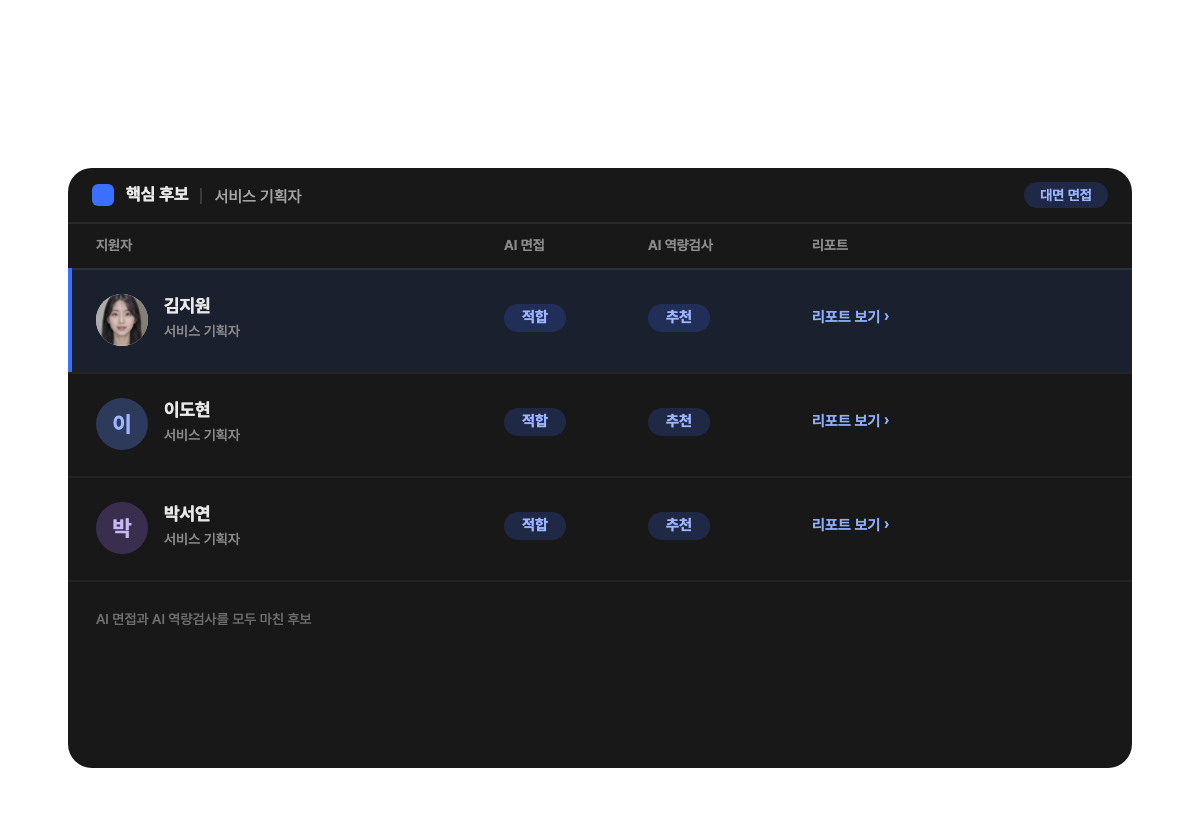
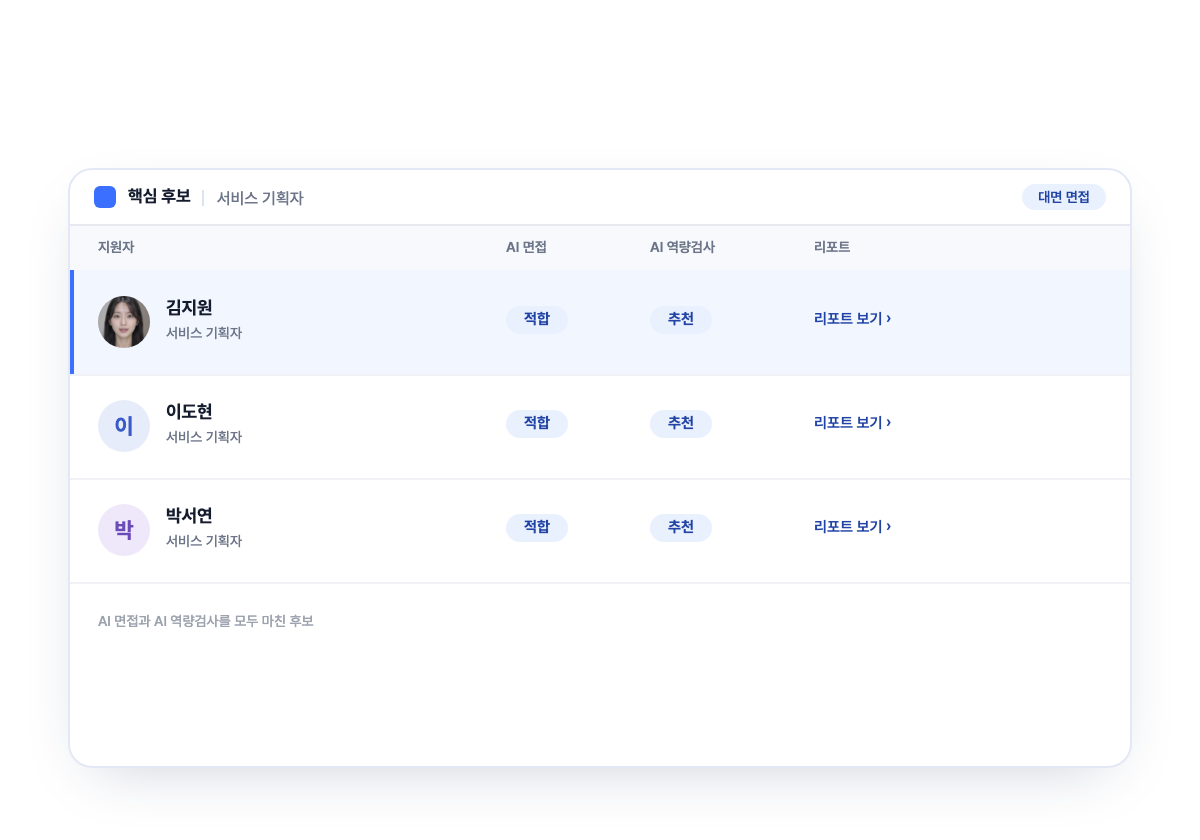
유형 탭 그림에 모션(글이 써지고 차례로 나타남), 대면 면접 화면 흰색, 얼굴 확인 원본 배경
- TypeDemo: 유형 탭 그림을 이미지 대신 HTML로(좌표·글자 cqw) — 채용공고 작성: 직무·주요 업무가 커서와 함께 입력,
  이력서: 줄이 차례로 써지고 '확인할 경험' 표시, AI 개발 과제: 요청 → AI 답 → 고친 줄 입력 → 테스트 통과,
  AI 업무 과제: 보고서 → 이해관계자 질문·답 → 계획 줄, 코딩 테스트: 풀이 코드가 한 줄씩 → 채점 안내. 보일 때만 움직이고 반복, 움직임 줄이기면 다 나온 모습
- 함께 쓰는 순서 3단계 '핵심 후보' 화면: 어두운 화면 → 흰 화면(채용팀 화면), 칩·이니셜 색도 밝게
- 얼굴 확인: 오려낸 가장자리가 뿌옇던 것을 원본 배경 그대로, 사진 전체 높이를 칸에 맞춰 인물을 작게

diff --git a/components/TypeDemo.tsx b/components/TypeDemo.tsx
@@ -1,0 +1,215 @@
+"use client";
+
+import { useEffect, useRef, useState, type CSSProperties, type ReactNode } from "react";
+
+// 유형 탭 그림(2026-11-26) — 이미지 대신 HTML로 그려 글이 써지고 요소가 차례로 나타난다. 모양은 도입 단계 이미지와 같은 창(오른쪽 아래로 넘침,
+// 원본 _docs/홈페이지 개편/도식/캡처가공 type-*). 면접 유형: 채용공고 작성(jd)·이력서(cv) — 흰 창. 과제 유형: AI 개발 과제(dev)·AI 업무 과제(doc)·
+// 코딩 테스트(code) — 실제 응시 화면 색의 어두운 창. 좌표는 360×240 캔버스 기준(px)을 cqw로 바꿔 칸 폭에 맞춰 늘고 준다(u).
+// 순서는 SCRIPTS(글자 단위로 써지는 type, 한 번에 나타나는 show). 보일 때만 움직이고(다른 탭이거나 화면 밖이면 멈춤) 다 끝나면 잠시 머물렀다 처음부터.
+// 움직임 줄이기 설정이면 다 나온 모습 그대로. 스타일은 app/landing.css(.tdemo·.td-*).
+const u = (px: number) => `${(px / 3.6).toFixed(3)}cqw`;
+const at = (left: number, top: number, extra: CSSProperties = {}): CSSProperties => ({ left: u(left), top: u(top), ...extra });
+
+type Seg = [string, string?]; // 글, 코드 색(k 키워드·c 흐름·f 함수·v 변수·n 숫자)
+type Ev = { id: string; segs?: Seg[]; gap?: number }; // segs가 있으면 한 글자씩, 없으면 한 번에 나타남
+const S = (text: string): Seg[] => [[text]];
+
+const SCRIPTS = {
+  jd: [
+    { id: "role", segs: S("서비스 기획자") },
+    { id: "j1", segs: S("· 서비스 개선 과제를 정의하고 우선순위를 정합니다") },
+    { id: "j2", segs: S("· 데이터로 문제를 찾고 개선안을 냅니다") },
+    { id: "j3", segs: S("· 개발·디자인과 일정을 맞춥니다") },
+  ],
+  cv: [
+    { id: "c0", segs: S("누리커머스 · 서비스 기획") }, { id: "d0", gap: 4 },
+    { id: "c1", segs: S("결제 화면 개편 프로젝트를 이끌었습니다") }, { id: "chip", gap: 10 },
+    { id: "c2", segs: S("고객 문의 데이터로 개선 과제를 정했습니다") },
+    { id: "c3", segs: S("신규 회원 온보딩 개편") }, { id: "d1", gap: 4 },
+    { id: "c4", segs: S("사용자 인터뷰로 요구사항을 정리했습니다") },
+  ],
+  dev: [
+    { id: "me", gap: 16 },
+    { id: "ai", segs: S("쿠폰이 없으면 합계를 그대로 돌려주게 고쳤어요") },
+    { id: "fix", segs: [["  "], ["if", "c"], [" (!"], ["cart", "v"], ["."], ["coupon", "v"], [") "], ["return", "c"], [" "], ["sum", "v"], [";"]] },
+    { id: "pass", gap: 4 },
+  ],
+  doc: [
+    { id: "m1", segs: S("# 자료 분석 보고서") },
+    { id: "m2", segs: S("## 1. 핵심 내용 비교") },
+    { id: "m3", segs: S("| 항목 | 파일 1 | 파일 2 |") },
+    { id: "m4", segs: S("| 신규 가입 | 늘었음 | 줄었음 |") },
+    { id: "q", gap: 14 },
+    { id: "a", segs: S("신규 가입을 늘리는 것이었어요.") },
+    { id: "m5", segs: S("## 2. 다음 분기 계획") },
+    { id: "m6", segs: S("- 가입 단계를 하나로 줄인다") },
+  ],
+  code: [
+    { id: "k1", segs: [["def", "k"], [" "], ["solution", "f"], ["("], ["nums", "v"], ["):"]] },
+    { id: "k2", segs: [["    "], ["seen", "v"], [" = "], ["set", "f"], ["()"]] },
+    { id: "k3", segs: [["    "], ["for", "c"], [" "], ["n", "v"], [" "], ["in", "c"], [" "], ["nums", "v"], [":"]] },
+    { id: "k4", segs: [["        "], ["if", "c"], [" "], ["n", "v"], [" "], ["in", "c"], [" "], ["seen", "v"], [":"]] },
+    { id: "k5", segs: [["            "], ["return", "c"], [" "], ["n", "v"]] },
+    { id: "k6", segs: [["        "], ["seen", "v"], ["."], ["add", "f"], ["("], ["n", "v"], [")"]] },
+    { id: "grade", gap: 4 },
+  ],
+} satisfies Record<string, Ev[]>;
+export type DemoKind = keyof typeof SCRIPTS;
+
+const TICK = 45; // 한 글자(ms)
+const GAP = 8; // 글 사이 쉼(틱)
+const HOLD = 70; // 다 끝난 뒤 머무름(틱)
+
+function timeline(evs: Ev[]) {
+  const start: Record<string, number> = {}, len: Record<string, number> = {};
+  let tick = 0;
+  for (const e of evs) {
+    start[e.id] = tick;
+    len[e.id] = e.segs ? e.segs.reduce((n, s) => n + s[0].length, 0) : 0;
+    tick += len[e.id] + (e.gap ?? GAP);
+  }
+  return { start, len, total: tick };
+}
+
+export default function TypeDemo({ kind, label }: { kind: DemoKind; label: string }) {
+  const evs: Ev[] = SCRIPTS[kind];
+  const { start, len, total } = timeline(evs);
+  const ref = useRef<HTMLDivElement>(null);
+  const [t, setT] = useState(total); // 서버·스크립트 전에는 다 나온 모습
+  const [moving, setMoving] = useState(false);
+
+  useEffect(() => {
+    const el = ref.current;
+    if (!el || window.matchMedia("(prefers-reduced-motion: reduce)").matches) return;
+    setT(0);
+    let timer = 0;
+    const io = new IntersectionObserver(([e]) => {
+      window.clearInterval(timer);
+      setMoving(e.isIntersecting);
+      if (e.isIntersecting) timer = window.setInterval(() => setT((v) => (v >= total + HOLD ? 0 : v + 1)), TICK);
+    }, { threshold: 0.4 });
+    io.observe(el);
+    return () => { io.disconnect(); window.clearInterval(timer); };
+  }, [total]);
+
+  const on = (id: string) => t >= start[id];
+  const cls = (base: string, id: string) => (on(id) ? `${base} on` : base);
+  // 커서는 지금 쓰고 있거나 마지막으로 쓴 글 끝에
+  let caretId = "";
+  for (const e of evs) if (e.segs && t >= start[e.id]) caretId = e.id;
+  const Ty = ({ id }: { id: string }): ReactNode => {
+    const ev = evs.find((e) => e.id === id)!;
+    let left = Math.max(0, Math.min(len[id], t - start[id]));
+    return (
+      <>
+        {ev.segs!.map(([txt, c], i) => {
+          const part = txt.slice(0, Math.max(0, left));
+          left -= txt.length;
+          return part ? (c ? <span key={i} className={c}>{part}</span> : <span key={i}>{part}</span>) : null;
+        })}
+        {moving && caretId === id && <i className="td-caret" aria-hidden="true"></i>}
+      </>
+    );
+  };
+
+  const dark = kind === "dev" || kind === "doc" || kind === "code";
+  return (
+    <div className="tdemo" ref={ref} role="img" aria-label={label}>
+      <div className={dark ? "td-win dk" : "td-win"}>
+        {kind === "jd" && (
+          <>
+            <div className="td-row" style={at(16, 14)}><b className="td-t">채용공고 작성</b></div>
+            <span className="td-btn" style={at(226, 16)}>임시 저장</span>
+            <i className="td-hr" style={at(0, 50)}></i>
+            <span className="td-lb" style={at(16, 62)}>직무</span>
+            <div className="td-in" style={at(16, 76, { width: u(300), height: u(26) })}><span className="td-line"><Ty id="role" /></span></div>
+            <span className="td-lb" style={at(16, 112)}>주요 업무</span>
+            <div className="td-in" style={at(16, 126, { width: u(300), height: u(96) })}></div>
+            {["j1", "j2", "j3"].map((id, k) => <span key={id} className="td-line td-abs" style={at(27, 135 + k * 20)}><Ty id={id} /></span>)}
+          </>
+        )}
+        {kind === "cv" && (
+          <>
+            <div className="td-row" style={at(16, 12)}>
+              <img className="td-av" src="/face-avatar.webp" alt="" width={96} height={96} />
+              <b className="td-t" style={{ marginLeft: u(8) }}>김지원</b>
+              <span className="td-n" style={{ marginLeft: u(6) }}>서비스 기획자 지원</span>
+            </div>
+            <span className="td-btn" style={at(258, 14)}>이력서</span>
+            <i className="td-hr" style={at(0, 50)}></i>
+            <span className="td-lb" style={at(16, 62)}>경력</span>
+            <span className="td-line td-abs" style={at(16, 81)}><Ty id="c0" /></span>
+            <span className={cls("td-d td-abs", "d0")} style={{ right: u(104), top: u(82) }}>2021 – 현재</span>
+            <div className={cls("td-pick", "c1")} style={at(16, 100, { width: u(300), height: u(26) })}>
+              <span className="td-line td-strong"><Ty id="c1" /></span>
+              <b className={on("chip") ? "on" : undefined}>확인할 경험</b>
+            </div>
+            <span className="td-line td-abs" style={at(16, 135)}><Ty id="c2" /></span>
+            <span className="td-lb" style={at(16, 162)}>프로젝트</span>
+            <span className="td-line td-abs" style={at(16, 181)}><Ty id="c3" /></span>
+            <span className={cls("td-d td-abs", "d1")} style={{ right: u(104), top: u(182) }}>2023</span>
+            <span className="td-line td-abs" style={at(16, 203)}><Ty id="c4" /></span>
+          </>
+        )}
+        {kind === "dev" && (
+          <>
+            <div className="td-tabs"><span className="on">task.ts</span><span>task.test.ts</span></div>
+            {[
+              <><span className="k">function</span> <span className="f">total</span>(<span className="v">cart</span>) {"{"}</>,
+              <>  <span className="k">let</span> <span className="v">sum</span> = <span className="n">0</span>;</>,
+              <>  <span className="c">for</span> (<span className="k">const</span> <span className="v">item</span> <span className="k">of</span> <span className="v">cart</span>.<span className="v">items</span>)</>,
+              <>    <span className="v">sum</span> += <span className="v">item</span>.<span className="v">price</span>;</>,
+              null,
+              <>  <span className="c">return</span> <span className="v">sum</span> * (<span className="n">1</span> - <span className="v">cart</span>.<span className="v">coupon</span>);</>,
+              <>{"}"}</>,
+            ].map((code, i) => (
+              <div key={i} className={i === 4 ? cls("td-code fix", "fix") : "td-code"} style={at(0, 38 + i * 15)}>
+                <em>{i + 1}</em><span>{code ?? <Ty id="fix" />}</span>
+              </div>
+            ))}
+            <div className="td-term" style={at(0, 166, { width: u(200) })}><span className={cls("ok", "pass")}>✓ 테스트 통과</span><span>task.test.ts</span></div>
+            <div className="td-side" style={{ left: u(200) }}>
+              <b className="td-slb">AI 에이전트</b>
+              <div className={cls("td-me", "me")}>쿠폰이 없을 때 합계가 틀려요.<br />고쳐 줘</div>
+              <div className={cls("td-ai", "ai")}><i>✦</i><span><Ty id="ai" /></span></div>
+            </div>
+          </>
+        )}
+        {kind === "doc" && (
+          <>
+            <div className="td-tabs"><span className="on">보고서.md</span><span>파일1.csv</span></div>
+            <div className="td-md" style={at(12, 40, { width: u(172) })}>
+              <p className="h1"><Ty id="m1" /></p>
+              <p className="h2"><Ty id="m2" /></p>
+              <p className="tb"><Ty id="m3" /></p>
+              <p className="tb"><Ty id="m4" /></p>
+              <p className="h2"><Ty id="m5" /></p>
+              <p><Ty id="m6" /></p>
+            </div>
+            <div className="td-side" style={{ left: u(190) }}>
+              <div className="td-seg"><span>AI 어시스턴트</span><span className="on">이해관계자</span></div>
+              <div className={cls("td-me", "q")}>지난 분기 목표는 무엇이었나요?</div>
+              <div className={cls("td-they", "a")}><b>마케팅 팀장</b><span><Ty id="a" /></span></div>
+            </div>
+          </>
+        )}
+        {kind === "code" && (
+          <>
+            <div className="td-row" style={at(16, 9)}><b className="td-t">코딩 테스트</b><span className="td-chip off" style={{ marginLeft: u(8) }}>AI·검색 사용 불가</span></div>
+            <span className="td-sbtn" style={at(262, 11)}>제출</span>
+            <i className="td-hr" style={at(0, 40)}></i>
+            <div className="td-q" style={at(0, 40, { width: u(116) })}>
+              <b>문제</b>
+              <p>처음으로 두 번 나온 수를 돌려주세요.</p>
+              <p className="ex">입력 [2, 7, 2]<br />출력 2</p>
+            </div>
+            {["k1", "k2", "k3", "k4", "k5", "k6"].map((id, i) => (
+              <div key={id} className="td-code" style={at(117, 46 + i * 15)}><em>{i + 1}</em><span><Ty id={id} /></span></div>
+            ))}
+            <div className="td-term" style={at(117, 160, { width: u(221) })}><span className={cls("ok", "grade")}>제출하면 숨은 테스트로 자동 채점합니다</span></div>
+          </>
+        )}
+      </div>
+    </div>
+  );
+}

diff --git a/app/landing.css b/app/landing.css
@@ -429,7 +429,70 @@
   .tt-tags{display:flex;flex-wrap:wrap;gap:6px;margin-top:4px}
   .tt-tags span{font-size:12.5px;font-weight:700;color:var(--blue-d);background:var(--soft-2);padding:5px 10px;border-radius:999px}
   .tt-shot{align-self:end;border-left:1px solid var(--line)}
-  .tt-shot img{display:block;width:100%;height:auto}
+  .tt-shot>img{display:block;width:100%;height:auto} /* 바로 아래 이미지만(TypeDemo 안의 아바타는 제외) */
+  /* 면접 유형 탭 그림 — 글이 써지는 HTML 화면(TypeDemo, 11/26). 도입 단계 이미지와 같은 흰 창, 좌표·글자는 360×240 캔버스 기준을 cqw로(칸 폭에 맞춰 늘고 줌) */
+  .tdemo{position:relative;container-type:inline-size;aspect-ratio:3/2;overflow:hidden;background:#fff}
+  .td-win{position:absolute;left:6.111cqw;top:6.111cqw;width:116.667cqw;height:77.778cqw;background:#fff;border-radius:2.778cqw;box-shadow:0 1.667cqw 6.667cqw rgba(31,45,90,.2),0 0 0 .278cqw rgba(31,45,90,.06);overflow:hidden}
+  .td-row{position:absolute;height:6.111cqw;display:flex;align-items:center}
+  .td-t{font-size:3.472cqw;font-weight:700;line-height:1;color:#111827;white-space:nowrap}
+  .td-n{font-size:2.917cqw;font-weight:600;line-height:1;color:#6B7280;white-space:nowrap}
+  .td-btn{position:absolute;height:5.556cqw;padding:0 2.778cqw;border-radius:1.667cqw;box-shadow:inset 0 0 0 .278cqw #D1D5DB;font-size:2.639cqw;font-weight:600;line-height:5.556cqw;color:#374151;white-space:nowrap}
+  .td-hr{position:absolute;right:0;height:.278cqw;background:#E6E9F0}
+  .td-lb{position:absolute;font-size:2.639cqw;font-weight:600;line-height:1;color:#6B7280}
+  .td-in{position:absolute;display:flex;align-items:center;box-sizing:border-box;border:.278cqw solid #E6E9F0;border-radius:1.944cqw;padding:0 2.778cqw}
+  .td-line{font-size:2.917cqw;font-weight:500;line-height:1.35;color:#1F2937;white-space:nowrap}
+  .td-abs{position:absolute}
+  .td-strong{font-weight:600}
+  .td-d{font-size:2.639cqw;font-weight:500;line-height:1;color:#9CA3AF;opacity:0;transition:opacity .4s}
+  .td-d.on{opacity:1}
+  .td-pick{position:absolute;display:flex;align-items:center;box-sizing:border-box;padding:0 2.222cqw 0 2.778cqw;border-radius:1.944cqw;border:.278cqw solid transparent;transition:background .3s,border-color .3s}
+  .td-pick.on{background:#EEF4FF;border-color:#086CEE}
+  .td-pick b{margin-left:auto;font-size:2.5cqw;font-weight:700;line-height:4.444cqw;color:#086CEE;background:#fff;border-radius:1.389cqw;padding:0 1.667cqw;opacity:0;transform:scale(.6);transition:opacity .3s,transform .35s cubic-bezier(.3,1.6,.5,1)}
+  .td-pick b.on{opacity:1;transform:none}
+  .td-av{display:block;flex:none;width:6.111cqw;height:6.111cqw;border-radius:50%}
+  .td-caret{display:inline-block;width:.417cqw;height:3.333cqw;margin-left:.556cqw;vertical-align:-.556cqw;background:#086CEE;animation:tdBlink 1s steps(1) infinite}
+  @keyframes tdBlink{50%{opacity:0}}
+  /* 과제 유형 탭 그림(어두운 창, 실제 응시 화면 색 — 캡처 GEN09와 같은 #181818·#1f1f1f·#2a2a2a, 코드 색은 편집기 기본 테마) */
+  .td-win.dk{background:#181818}
+  .td-win.dk .td-t{color:#e8e8e8}
+  .td-win.dk .td-hr{background:#2a2a2a}
+  .td-tabs{position:absolute;left:0;right:0;top:0;height:7.778cqw;display:flex;align-items:center;border-bottom:.278cqw solid #2a2a2a;font:600 2.778cqw/1 ui-monospace,SFMono-Regular,Menlo,monospace;color:#8a8a8a}
+  .td-tabs span{height:100%;display:flex;align-items:center;padding:0 3.333cqw;border-right:.278cqw solid #232323}
+  .td-tabs span.on{color:#e8e8e8;background:#1f1f1f;box-shadow:inset 0 -.556cqw 0 #3A6FFF}
+  .td-code{position:absolute;width:55.556cqw;height:4.167cqw;display:flex;align-items:center;white-space:pre;font:500 2.25cqw/1 ui-monospace,SFMono-Regular,Menlo,monospace;color:#d4d4d4}
+  .td-code em{flex:none;width:5.556cqw;margin-right:2.222cqw;text-align:right;font-style:normal;color:#5a5a5a}
+  .td-code.fix{transition:background .3s}
+  .td-code.fix.on{background:rgba(58,111,255,.16);box-shadow:inset .556cqw 0 0 #3A6FFF}
+  .td-code .k,.td-md .k{color:#569CD6}.td-code .c{color:#C586C0}.td-code .f{color:#DCDCAA}.td-code .v{color:#9CDCFE}.td-code .n{color:#B5CEA8}
+  .td-term{position:absolute;height:6.667cqw;display:flex;align-items:center;gap:2.222cqw;padding:0 2.778cqw;box-sizing:border-box;border-top:.278cqw solid #2a2a2a;font-size:2.222cqw;font-weight:500;line-height:1;color:#8a8a8a;white-space:nowrap}
+  .td-term .ok{font-weight:700;color:#89d185;opacity:0;transition:opacity .3s}
+  .td-term .ok.on{opacity:1}
+  .td-side{position:absolute;top:7.778cqw;right:0;bottom:0;border-left:.278cqw solid #2a2a2a;padding:2.778cqw 2.778cqw 0;display:flex;flex-direction:column;gap:2.222cqw;box-sizing:border-box}
+  .td-slb{font-size:2.361cqw;font-weight:700;line-height:1;color:#cccccc}
+  .td-me,.td-they{opacity:0;transform:translateY(1.5cqw);transition:opacity .35s,transform .35s}
+  .td-me.on,.td-they.on{opacity:1;transform:none}
+  .td-me{align-self:flex-start;max-width:32.222cqw;background:#03395e;color:#fff;border-radius:2.222cqw;padding:1.667cqw 2.222cqw;font-size:2.278cqw;font-weight:500;line-height:1.45;word-break:keep-all}
+  .td-ai{max-width:32.778cqw;display:flex;gap:1.111cqw;font-size:2.278cqw;line-height:1.5;color:#d4d4d4;word-break:keep-all;opacity:0;transition:opacity .3s}
+  .td-ai.on{opacity:1}
+  .td-ai i{font-style:normal;color:#c586c0}
+  .td-they{max-width:33.333cqw;background:#2a2d2e;color:#d4d4d4;border-radius:2.222cqw;padding:1.667cqw 2.222cqw;font-size:2.278cqw;line-height:1.45;display:flex;flex-direction:column;gap:.556cqw;word-break:keep-all}
+  .td-they b{font-size:1.944cqw;font-weight:700;line-height:1.2;color:#a3a3a3}
+  .td-seg{display:flex;gap:.556cqw;align-self:flex-start;background:#232323;border-radius:1.667cqw;padding:.556cqw;font-size:2.056cqw;font-weight:600;line-height:1;color:#8a8a8a}
+  .td-seg span{padding:1.111cqw 1.667cqw;border-radius:1.111cqw}
+  .td-seg span.on{background:#3a3a3a;color:#e8e8e8}
+  .td-md{position:absolute;display:flex;flex-direction:column;gap:1.667cqw;font:500 2.333cqw/1.35 ui-monospace,SFMono-Regular,Menlo,monospace;color:#cccccc}
+  .td-md p{margin:0;white-space:pre;min-height:1.35em}
+  .td-md .h1{font-weight:700;color:#e8e8e8;font-size:2.667cqw}
+  .td-md .h2{font-weight:700;color:#569CD6;margin-top:.833cqw}
+  .td-md .tb{color:#a3a3a3}
+  .td-q{position:absolute;bottom:0;padding:2.778cqw 2.778cqw 0;box-sizing:border-box;border-right:.278cqw solid #2a2a2a;display:flex;flex-direction:column;gap:1.667cqw;font-size:2.278cqw;line-height:1.5;color:#cccccc;word-break:keep-all}
+  .td-q b{font-size:2.361cqw;font-weight:700;line-height:1;color:#e8e8e8}
+  .td-q p{margin:0}
+  .td-q .ex{font:500 2.167cqw/1.6 ui-monospace,SFMono-Regular,Menlo,monospace;color:#a3a3a3;background:#1f1f1f;border-radius:1.667cqw;padding:1.389cqw 1.667cqw}
+  .td-chip{display:inline-block;height:5cqw;padding:0 2.222cqw;border-radius:1.389cqw;font-size:2.639cqw;font-weight:600;line-height:5cqw;white-space:nowrap}
+  .td-chip.off{background:#2e2e2e;color:#b8b8b8}
+  .td-sbtn{position:absolute;height:5.556cqw;padding:0 2.778cqw;border-radius:1.667cqw;background:#086CEE;color:#fff;font-size:2.639cqw;font-weight:600;line-height:5.556cqw;white-space:nowrap}
+  @media(prefers-reduced-motion:reduce){.td-caret{animation:none}.td-d,.td-pick,.td-pick b,.td-me,.td-they,.td-ai,.td-term .ok,.td-code.fix{transition:none}}
   @media(max-width:860px){.tt-list{margin-top:32px}.tt-tab{font-size:14px;padding:11px 16px}.tt-panel{grid-template-columns:minmax(0,1fr)}.tt-shot{border-left:0;border-top:1px solid var(--line)}}
 
   .logo-wall{display:flex;flex-wrap:wrap;justify-content:center;gap:16px 40px;align-items:center;margin-top:52px;padding-top:40px;border-top:1px solid var(--line)}

diff --git a/app/ai-assessment/page.tsx b/app/ai-assessment/page.tsx
@@ -56,9 +56,9 @@ const PAIRS = [
 
 // 04 · 과제 유형 — 11/26 D안(탭으로 고르기): 아이콘 대신 도입 단계 이미지와 같은 결의 화면(원본 _docs/홈페이지 개편/도식/캡처가공 type-as-*)
 const KINDS: TypeItem[] = [
-  { title: "AI 개발 과제", body: "개발 직군용입니다. 기존 코드의 문제를 AI 에이전트와 함께 해결하고, 브라우저에서 코드를 고치고 테스트를 돌립니다.", tags: ["개발 직군", "AI 에이전트와 함께"], img: "/type-as-dev.webp", alt: "AI 개발 과제 화면: 코드 편집기와 AI 에이전트 대화, 테스트 실행 버튼" },
-  { title: "AI 업무 과제", body: "비개발 직군용입니다. 자료를 분석해 AI와 함께 문서나 보고서를 쓰고, 궁금한 점은 가상의 이해관계자에게 묻습니다.", tags: ["비개발 직군", "AI와 함께"], img: "/type-as-doc.webp", alt: "AI 업무 과제 화면: 보고서 문서와 이해관계자에게 질문하는 대화" },
-  { title: "코딩 테스트", body: "개발 기본기를 AI 없이 봅니다. AI와 검색 없이 함수를 구현하면 숨은 테스트로 자동 채점합니다.", tags: ["개발 직군", "AI·검색 없이"], img: "/type-as-code.webp", alt: "코딩 테스트 화면: AI·검색 사용 불가 표시와 함수 코드, 숨은 테스트로 자동 채점" },
+  { title: "AI 개발 과제", body: "개발 직군용입니다. 기존 코드의 문제를 AI 에이전트와 함께 해결하고, 브라우저에서 코드를 고치고 테스트를 돌립니다.", tags: ["개발 직군", "AI 에이전트와 함께"], img: "/type-as-dev.webp", alt: "AI 개발 과제 화면: 지원자가 AI 에이전트에게 고칠 곳을 말하고, AI가 코드를 고친 뒤 테스트가 통과하는 모습", demo: "dev" },
+  { title: "AI 업무 과제", body: "비개발 직군용입니다. 자료를 분석해 AI와 함께 문서나 보고서를 쓰고, 궁금한 점은 가상의 이해관계자에게 묻습니다.", tags: ["비개발 직군", "AI와 함께"], img: "/type-as-doc.webp", alt: "AI 업무 과제 화면: 보고서를 쓰다가 이해관계자에게 지난 분기 목표를 묻고 답을 받아 계획을 이어 쓰는 모습", demo: "doc" },
+  { title: "코딩 테스트", body: "개발 기본기를 AI 없이 봅니다. AI와 검색 없이 함수를 구현하면 숨은 테스트로 자동 채점합니다.", tags: ["개발 직군", "AI·검색 없이"], img: "/type-as-code.webp", alt: "코딩 테스트 화면: AI·검색 없이 문제를 보며 풀이 코드를 한 줄씩 쓰고, 제출하면 숨은 테스트로 자동 채점", demo: "code" },
 ];
 
 // 응시 환경 — B안(11/25): 왼쪽 큰 카드(전체 화면 공유) + 오른쪽 작은 카드 2장, 카드·이미지 바탕 모두 흰색.

diff --git a/app/ai-interview/page.tsx b/app/ai-interview/page.tsx
@@ -44,10 +44,11 @@ const PAIRS = [
   { problem: "면접관마다 기준이 달라 비교가 어렵습니다", solution: "모든 지원자를 같은 기준으로 평가합니다" },
 ];
 
-// 11/26 D안(탭으로 고르기): 아이콘 대신 도입 단계 이미지와 같은 결의 화면 — 채용공고는 JD 작성 화면, 이력서는 이력서 화면(원본 _docs/홈페이지 개편/도식/캡처가공 type-iv-*)
+// 11/26 D안(탭으로 고르기): 아이콘 대신 도입 단계 이미지와 같은 결의 화면 — 채용공고는 JD 작성 화면, 이력서는 이력서 화면(원본 _docs/홈페이지 개편/도식/캡처가공 type-iv-*).
+// 같은 날 "텍스트가 써지는 모션": demo로 이미지 대신 HTML 그림(TypeDemo)을 그려 글이 한 글자씩 써진다(img는 남겨 둠 — 원본·대체용)
 const TYPES: TypeItem[] = [
-  { title: "채용공고 기반 면접", body: "직무 기술서에서 평가 항목을 뽑고, 항목마다 단계별 기준과 맞춤 질문을 만듭니다.", tags: ["채용공고로 만듦", "평가 항목·단계별 기준"], img: "/type-iv-jd.webp", alt: "채용공고 작성 화면: 직무와 주요 업무를 적는 모습" },
-  { title: "이력서 기반 면접", body: "지원자의 이력서와 경력을 분석해, 적힌 경험을 확인하는 질문을 만듭니다.", tags: ["이력서로 만듦", "적힌 경험 확인"], img: "/type-iv-cv.webp", alt: "이력서 화면: 경력 중 확인할 경험이 표시된 모습" },
+  { title: "채용공고 기반 면접", body: "직무 기술서에서 평가 항목을 뽑고, 항목마다 단계별 기준과 맞춤 질문을 만듭니다.", tags: ["채용공고로 만듦", "평가 항목·단계별 기준"], img: "/type-iv-jd.webp", alt: "채용공고 작성 화면: 직무와 주요 업무를 적는 모습", demo: "jd" },
+  { title: "이력서 기반 면접", body: "지원자의 이력서와 경력을 분석해, 적힌 경험을 확인하는 질문을 만듭니다.", tags: ["이력서로 만듦", "적힌 경험 확인"], img: "/type-iv-cv.webp", alt: "이력서 화면: 경력 중 확인할 경험이 표시된 모습", demo: "cv" },
 ];
 
 // 06 · 도입 3단계 — AI 역량검사 '과제 만들기'처럼 카드 아래 화면 이미지(아이콘 없음, 11/25).

diff --git a/components/TypeTabs.tsx b/components/TypeTabs.tsx
@@ -1,11 +1,13 @@
 "use client";
 
 import { useId, useRef, useState, type KeyboardEvent } from "react";
+import TypeDemo, { type DemoKind } from "./TypeDemo";
 
 // 유형 섹션 — 탭으로 고르기(2026-11-26 시안 D안). AI 면접 '면접 유형'(2개)·AI 역량검사 '과제 유형'(3개) 공용.
 // 아이콘 대신 도입 단계 이미지와 같은 결의 화면 이미지(흰 창, 채용공고 작성·이력서·코드 편집기 등 — 원본은 _docs/홈페이지 개편/도식/캡처가공 type-*).
 // 패널은 모두 서버에서 그려 두고(검색엔진이 다 읽게) 고르지 않은 것만 hidden. 좌우 화살표·Home·End로 탭을 옮긴다. 스타일은 app/landing.css(.tt-*).
-export type TypeItem = { title: string; body: string; tags: string[]; img: string; alt: string };
+// demo: 이미지 대신 글이 써지고 차례로 나타나는 HTML 그림(TypeDemo — 면접 유형 jd·cv, 과제 유형 dev·doc·code, 11/26)
+export type TypeItem = { title: string; body: string; tags: string[]; img: string; alt: string; demo?: DemoKind };
 
 export default function TypeTabs({ items, label }: { items: TypeItem[]; label: string }) {
   const [cur, setCur] = useState(0);
@@ -49,7 +51,7 @@ export default function TypeTabs({ items, label }: { items: TypeItem[]; label: s
             <p>{t.body}</p>
             <div className="tt-tags">{t.tags.map((g) => <span key={g}>{g}</span>)}</div>
           </div>
-          <div className="tt-shot"><img src={t.img} alt={t.alt} width={720} height={480} loading="lazy" /></div>
+          <div className="tt-shot">{t.demo ? <TypeDemo kind={t.demo} label={t.alt} /> : <img src={t.img} alt={t.alt} width={720} height={480} loading="lazy" />}</div>
         </div>
       ))}
     </div>

diff --git a/CLAUDE.md b/CLAUDE.md
@@ -26,7 +26,7 @@ Supercoder AI 웹사이트 — **AIVIEW** 제품 랜딩 + 블로그/도입문의
   - `app/privacy`, `app/terms`, `app/terms-applicant` — 법적 페이지(서버). `app/not-found.tsx` — 404.
 - **공유 디자인 토큰·컴포넌트 CSS는 `app/globals.css` (SSOT).** `:root` 변수(`--blue`,`--ink`,`--soft`,`--r`,`--shadow` 등)·버튼(`.btn*`)·`.eyebrow`·GNB(`header`/`nav`)·푸터(`footer`)·모달(`.bro-*`)·챗봇(`.cbot*`)·법적 페이지(`.legal`)가 모두 여기. 루트 `layout.tsx`에서 1회 import. **공유 컴포넌트를 바꿀 땐 `app/globals.css`만 고치면 전 페이지가 함께 바뀐다.**
 - **페이지 고유 CSS는 라우트 폴더에 co-located** (`app/landing.css`, `app/apply/apply.css`, `app/blog/blog.css`, `app/blog/[id]/post.css`, `app/admin/admin.css`). 해당 page에서 import. 클래스는 전역 스코프(원본 정적 사이트와 동일 동작).
-- **공유 컴포넌트(`components/`):** `SiteHeader`(섹션 인지형 GNB·메뉴. '제품▾' 펼침 메뉴 항목은 `PRODUCTS` 배열 하나를 데스크톱·모바일이 함께 쓴다), `SiteFooter`, `Chatbot`(FAQ 챗봇), `HeroParticles`(canvas 입자 모션, 히어로·CTA 공용), `Analytics`·`UtmCapture`·`ViewCounter`. 모두 `layout.tsx`에 마운트되거나 page에서 사용. `"use client"`. 홈·제품 페이지가 같이 쓰는 섹션은 서버 컴포넌트 `PageHero`(홈 전용 다크 히어로, 강조어는 `HeroWord`)·`ProductHero`(제품 상세 페이지 히어로 — 밝은 바탕 + 오른쪽 제품 이미지 `public/hero-*.webp`, 두 제품 모두 밝은 바탕 + 같은 어두운 제품 화면(#181818 계열, 2026-11-25 AI 면접도 AI 역량검사 색으로 맞춤). AI 역량검사는 실제 응시 화면 캡처를 가공한 것, AI 면접은 캡처가 없어 같은 색으로 캡처 배치대로 그린 것 — 둘 다 `_docs/홈페이지 개편/도식/캡처가공/make.mjs`. 화면 그림은 `HeroStage`(바탕·점선·레이어 — ProductFlow 썸네일과 공용). `layers`·`lines`를 주면 바탕 위에 투명 레이어를 겹쳐 레이어마다 움직인다 — AI 역량검사는 `public/hero-assessment-*.webp`, AI 면접은 `public/hero-interview-*.webp`(화면·AI 면접관 카드·리포트·칩, 캔버스 600×448 — `size`로 맞춤). 레이어에 `orb`를 주면 그 레이어와 함께 움직이는 오브를 겹친다.)·`LiveOrb`(움직이는 AI 면접관 오브, 클라이언트 — 제품과 같은 `lib/interviewerOrb.js`를 dynamic import해 이미지 속 정지 오브 자리를 바탕색으로 덮고 말하기 모드로 그린다. 원본은 `_docs/홈페이지 개편/AI면접관_orb/`)·`AskDemo`(AI 면접 '면접 진행' 그림 — 히어로 AI 면접관 카드와 같은 모양을 HTML로, 질문 → 꼬리질문 + `LiveOrb`)·`AssistDemo`(AI 역량검사 '과제 화면' 그림 — 히어로 AI 어시스턴트 카드를 HTML로, 지시 → AI 답) — 둘 다 `DemoPanel`(연한 판 + 화면에 들어오면 `.ad-1` → `.ad-2`가 차례로 나타나는 9초 반복 모션)·`StepFlow`(3단계 카드 줄, 단계마다 `img`를 주면 카드 아래에 실제 화면을 꽉 차게 붙인다 — `.pstep.has-shot`)·`TeamSection`(채용팀 기능, 두 제품 공용)·`ClientLogos`(도입사 로고 마퀴)·`ReportRows`(리포트 4종)·`MotionDiagram`(모션 도식 — 이미지가 아니라 페이지에 바로 넣는 SVG, `components/motionDiagrams.ts`. AI 면접 리포트 4종(줄 써짐·원 그래프/막대·육각형 모양 변화·강점·약점 카드 동시 등장)과 AI 역량검사 진행 방식 3장(과정 평가 리플레이·AI 인터뷰 대화·평가와 근거). 다시 뽑기는 `_docs/홈페이지 개편/도식/모션도식_만들기_make-motion.py`, 11/26)·`IntegritySection`(부정행위 감지 — 왼쪽 감지 항목 6개, 오른쪽 HTML '감지 내역' 예시 카드, 홈은 `withLink`)·`SecuritySection`(좌우 분할 — 왼쪽 제목·ISO 인증 마크, 오른쪽 보안 항목 목록)·`FaqList`(FAQ 목록)·`SoftCta`(중간 안내 한 줄+버튼 — 홈 서비스소개서 안내)·`TypeTabs`(유형 섹션 — 면접 유형·과제 유형을 탭으로 고르기, 아이콘 대신 도입 단계 이미지와 같은 결의 화면 `public/type-*.webp`, 11/26)·`ProductFlow`(제품 페이지 끝 다른 제품 안내·홈 05 — 함께 쓰는 순서: AI 면접 → AI 역량검사 → 대면 면접 세 단계, 1·2단계 그림은 각 제품 히어로 화면 `HeroStage`, 3단계는 같은 구성의 '핵심 후보' 화면(`public/f2f-*.webp`, 가상 이름 + 사용자가 준 목업 인물 사진), 카드 사이 흰 원 꺾쇠, 상대 제품 카드에만 버튼, 11/26)·`FinalCta`(마지막 CTA, `points`를 주면 버튼 아래 차별점 띠 — AI 역량검사) — 스타일은 `app/landing.css`. 제품 이름·주소·한 줄 설명은 `lib/products.ts`(GNB·푸터·홈 카드·ProductFlow 공용 — 단계 설명 `when`, 히어로 화면 데이터 `HERO`(바탕·레이어·점선·크기, ProductHero와 ProductFlow 썸네일이 같이 씀)도 여기), ISO 인증 목록은 `lib/certs.ts`(푸터·보안 섹션 공용). 제품 문구의 사실 근거·금지 표현은 `_docs/홈페이지 개편/AI면접_AI역량검사_차이_소개자료.md`. ⚠ `CostCalculator.tsx`는 **어디에도 마운트돼 있지 않다**(미사용). 소개서 리드는 옛 `BrochureModal`이 아니라 `app/brochure/` 라우트가 담당한다.
+- **공유 컴포넌트(`components/`):** `SiteHeader`(섹션 인지형 GNB·메뉴. '제품▾' 펼침 메뉴 항목은 `PRODUCTS` 배열 하나를 데스크톱·모바일이 함께 쓴다), `SiteFooter`, `Chatbot`(FAQ 챗봇), `HeroParticles`(canvas 입자 모션, 히어로·CTA 공용), `Analytics`·`UtmCapture`·`ViewCounter`. 모두 `layout.tsx`에 마운트되거나 page에서 사용. `"use client"`. 홈·제품 페이지가 같이 쓰는 섹션은 서버 컴포넌트 `PageHero`(홈 전용 다크 히어로, 강조어는 `HeroWord`)·`ProductHero`(제품 상세 페이지 히어로 — 밝은 바탕 + 오른쪽 제품 이미지 `public/hero-*.webp`, 두 제품 모두 밝은 바탕 + 같은 어두운 제품 화면(#181818 계열, 2026-11-25 AI 면접도 AI 역량검사 색으로 맞춤). AI 역량검사는 실제 응시 화면 캡처를 가공한 것, AI 면접은 캡처가 없어 같은 색으로 캡처 배치대로 그린 것 — 둘 다 `_docs/홈페이지 개편/도식/캡처가공/make.mjs`. 화면 그림은 `HeroStage`(바탕·점선·레이어 — ProductFlow 썸네일과 공용). `layers`·`lines`를 주면 바탕 위에 투명 레이어를 겹쳐 레이어마다 움직인다 — AI 역량검사는 `public/hero-assessment-*.webp`, AI 면접은 `public/hero-interview-*.webp`(화면·AI 면접관 카드·리포트·칩, 캔버스 600×448 — `size`로 맞춤). 레이어에 `orb`를 주면 그 레이어와 함께 움직이는 오브를 겹친다.)·`LiveOrb`(움직이는 AI 면접관 오브, 클라이언트 — 제품과 같은 `lib/interviewerOrb.js`를 dynamic import해 이미지 속 정지 오브 자리를 바탕색으로 덮고 말하기 모드로 그린다. 원본은 `_docs/홈페이지 개편/AI면접관_orb/`)·`AskDemo`(AI 면접 '면접 진행' 그림 — 히어로 AI 면접관 카드와 같은 모양을 HTML로, 질문 → 꼬리질문 + `LiveOrb`)·`AssistDemo`(AI 역량검사 '과제 화면' 그림 — 히어로 AI 어시스턴트 카드를 HTML로, 지시 → AI 답) — 둘 다 `DemoPanel`(연한 판 + 화면에 들어오면 `.ad-1` → `.ad-2`가 차례로 나타나는 9초 반복 모션)·`StepFlow`(3단계 카드 줄, 단계마다 `img`를 주면 카드 아래에 실제 화면을 꽉 차게 붙인다 — `.pstep.has-shot`)·`TeamSection`(채용팀 기능, 두 제품 공용)·`ClientLogos`(도입사 로고 마퀴)·`ReportRows`(리포트 4종)·`MotionDiagram`(모션 도식 — 이미지가 아니라 페이지에 바로 넣는 SVG, `components/motionDiagrams.ts`. AI 면접 리포트 4종(줄 써짐·원 그래프/막대·육각형 모양 변화·강점·약점 카드 동시 등장)과 AI 역량검사 진행 방식 3장(과정 평가 리플레이·AI 인터뷰 대화·평가와 근거). 다시 뽑기는 `_docs/홈페이지 개편/도식/모션도식_만들기_make-motion.py`, 11/26)·`IntegritySection`(부정행위 감지 — 왼쪽 감지 항목 6개, 오른쪽 HTML '감지 내역' 예시 카드, 홈은 `withLink`)·`SecuritySection`(좌우 분할 — 왼쪽 제목·ISO 인증 마크, 오른쪽 보안 항목 목록)·`FaqList`(FAQ 목록)·`SoftCta`(중간 안내 한 줄+버튼 — 홈 서비스소개서 안내)·`TypeTabs`(유형 섹션 — 면접 유형·과제 유형을 탭으로 고르기, 11/26. 그림은 `TypeDemo` — 도입 단계 이미지와 같은 결의 창을 HTML로 그려 글이 한 글자씩 써지고 요소가 차례로 나타남(채용공고·이력서는 흰 창, 과제 3종은 실제 응시 화면 색), 좌표는 360×240 기준을 cqw로. 원본 이미지 `public/type-*.webp`는 남겨 둠)·`ProductFlow`(제품 페이지 끝 다른 제품 안내·홈 05 — 함께 쓰는 순서: AI 면접 → AI 역량검사 → 대면 면접 세 단계, 1·2단계 그림은 각 제품 히어로 화면 `HeroStage`, 3단계는 같은 구성의 '핵심 후보' 화면(`public/f2f-*.webp`, 가상 이름 + 사용자가 준 목업 인물 사진), 카드 사이 흰 원 꺾쇠, 상대 제품 카드에만 버튼, 11/26)·`FinalCta`(마지막 CTA, `points`를 주면 버튼 아래 차별점 띠 — AI 역량검사) — 스타일은 `app/landing.css`. 제품 이름·주소·한 줄 설명은 `lib/products.ts`(GNB·푸터·홈 카드·ProductFlow 공용 — 단계 설명 `when`, 히어로 화면 데이터 `HERO`(바탕·레이어·점선·크기, ProductHero와 ProductFlow 썸네일이 같이 씀)도 여기), ISO 인증 목록은 `lib/certs.ts`(푸터·보안 섹션 공용). 제품 문구의 사실 근거·금지 표현은 `_docs/홈페이지 개편/AI면접_AI역량검사_차이_소개자료.md`. ⚠ `CostCalculator.tsx`는 **어디에도 마운트돼 있지 않다**(미사용). 소개서 리드는 옛 `BrochureModal`이 아니라 `app/brochure/` 라우트가 담당한다.
 - **섹션 = 랜딩 구조 (정의된 이름·번호·id).** `app/page.tsx`는 번호 매겨진 섹션 스택이다. 정식 목록(2026-11 개편): 01 히어로(`#hero`), 02 도입사(`#clients`), 03 문제·FLOOD(`#flood`), 04 해결·제품 2종(`#products`, 옛 VALUE 자리 — 카드 위 그림은 제품 페이지의 움직이는 카드 `AskDemo`·`AssistDemo`), 05 함께 쓰는 순서(`#flow`, 제품 페이지 끝과 같은 `ProductFlow` — `current` 없이 두 제품 카드 모두 버튼. 옛 깔때기 ROLE 자리, 2026-11-26), 06 작동 방식·리포트(AI 면접 4종 `ReportRows` + `after`로 AI 역량검사 리포트 도식) + 도입 3단계(제품 페이지와 같은 화면 이미지 `StepFlow`)(`#how`), 07 부정행위 감지(`#integrity`), 08 보안(`#security`), 09 성과·PROOF(`#proof`), 10 후기(`#voices`), 11 FAQ(`#faq`), 12 마지막 CTA(`#final`). 배경은 흰색↔연한 블루가 번갈아 오도록 둔다(공용 섹션 틀 `.band`/`.band.soft`). GNB는 섹션 앵커를 쓰지 않는다 — 메뉴는 제품▾(`/ai-interview`·`/ai-assessment`)·블로그·서비스소개서·이벤트(2026-11-24). 부정행위 감지·보안은 메뉴가 아니라 홈·제품 페이지 본문에서 보여준다.
 - **섹션 인지형 GNB:** `[data-nav="dark"]` 섹션(히어로·FINAL) 위에선 헤더 반전(흰 로고). 색 전환 클래스(`header.nav-invert`/`.nav-solid`)는 `globals.css`(SSOT), 감지 로직은 `SiteHeader.tsx`의 `syncHeader`.
 - **폰트·아이콘은 자체 호스팅 서브셋(2026-08-10 성능 최적화):** `layout.tsx`가 `pretendard.css`(woff2 청크만 jsdelivr)와 `fontawesome.css`를 import한다. 아이콘은 `<i className="fa-...">`로 쓰되, **`app/fontawesome.css`에 정의된 아이콘만 쓸 수 있다** — `public/fonts/`의 woff2도 pyftsubset으로 잘라낸 상태라 목록에 없는 이름을 쓰면 버튼은 동작해도 글리프가 렌더되지 않는다(2026-08-21 `fa-flask` 사례). 새 아이콘이 꼭 필요하면 CSS 룰 추가 + 폰트 재서브셋이 함께 필요하다. Supabase는 `@supabase/supabase-js`(npm).
